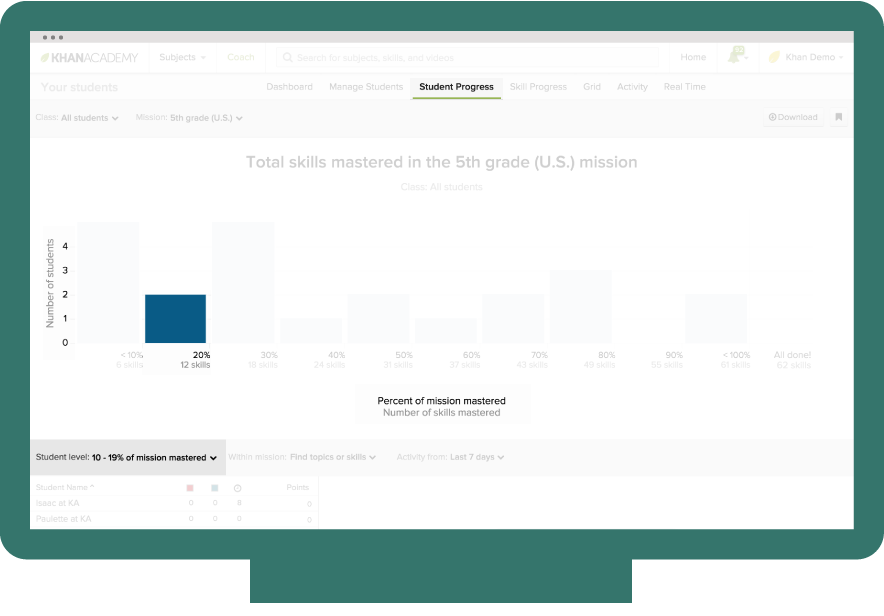
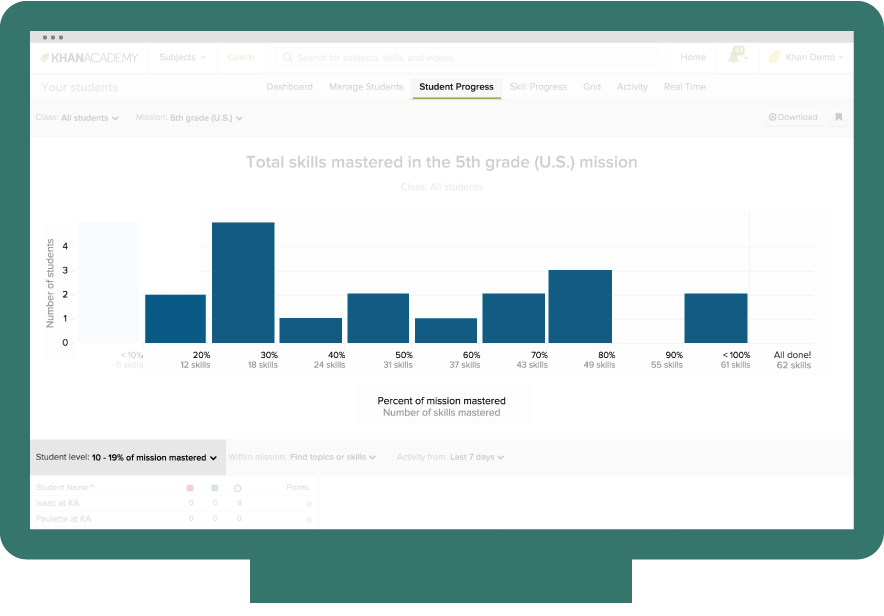
Swap out histogram image and hide arrow on small screen

diff --git a/stipend.html b/stipend.html
@@ -114,7 +114,7 @@
 					</a>
 					<div class="ia-instructions instructions">
 						<p>
-							Your students will be asked to complete an initial mission warm-up and can then start working through their mission. You can track their progress by clicking &ldquo;student progress&rdquo; in your coach account. Look specifically at the bar marked &ldquo;20%,&rdquo; which displays students with 10-19% of the mission mastered.
+							Your students will be asked to complete an initial mission warm-up and can then start working through their mission. You can track their progress by clicking &ldquo;student progress&rdquo; in your coach account. Look specifically at any of the bars that say &ldquo;20%,&rdquo; or more (&ldquo;30%,&rdquo;, &ldquo;40%,&rdquo;, &ldquo;50%,&rdquo; etc.) and add up the number of students who have completed these skills.
 						</p>
 					</div>
 				</li>

diff --git a/css/styles.css b/css/styles.css
@@ -431,6 +431,11 @@ em {
 	}
 }
 @media screen and (max-width: 360px) {
+	.primary-cta img {
+		display: none;
+	}
+}
+@media screen and (max-width: 360px) {
 	.container, .medium-container, .large-container, .section-partners {
 		padding: 24px;
 	}
